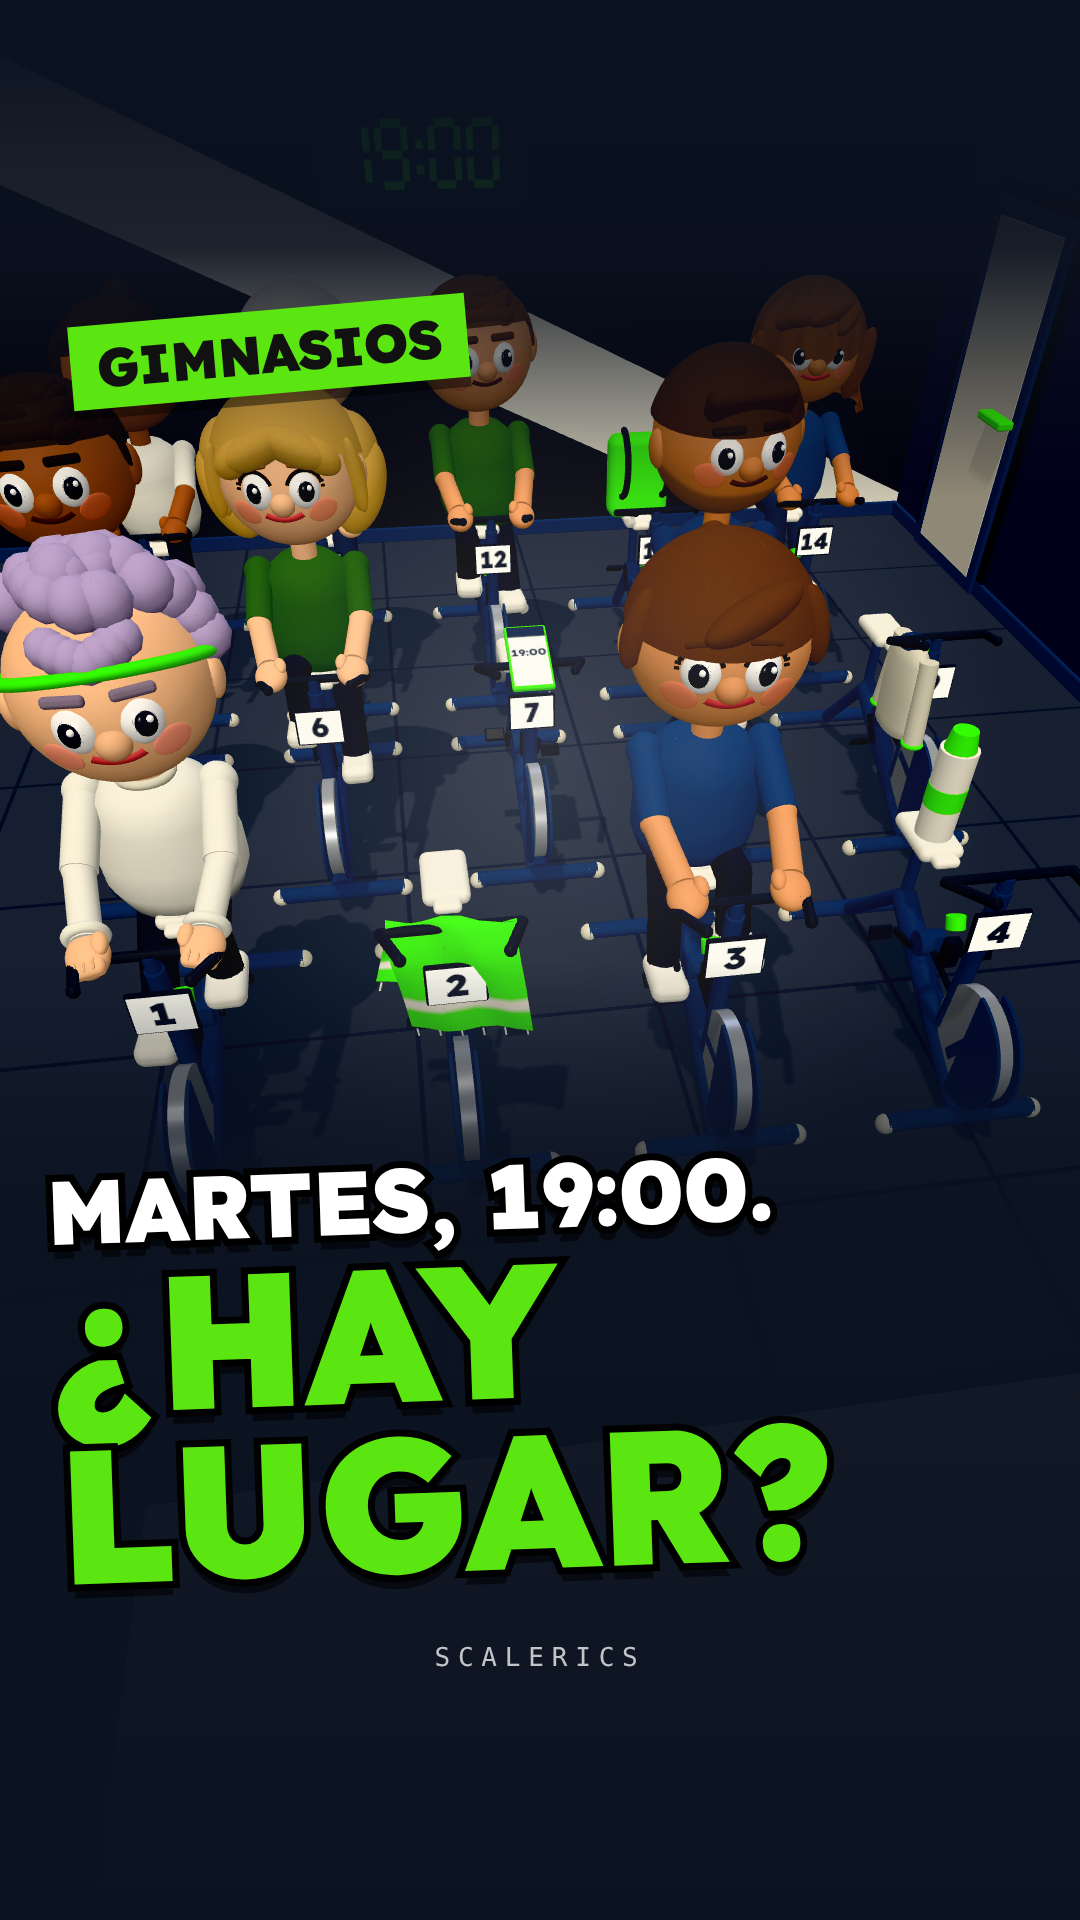
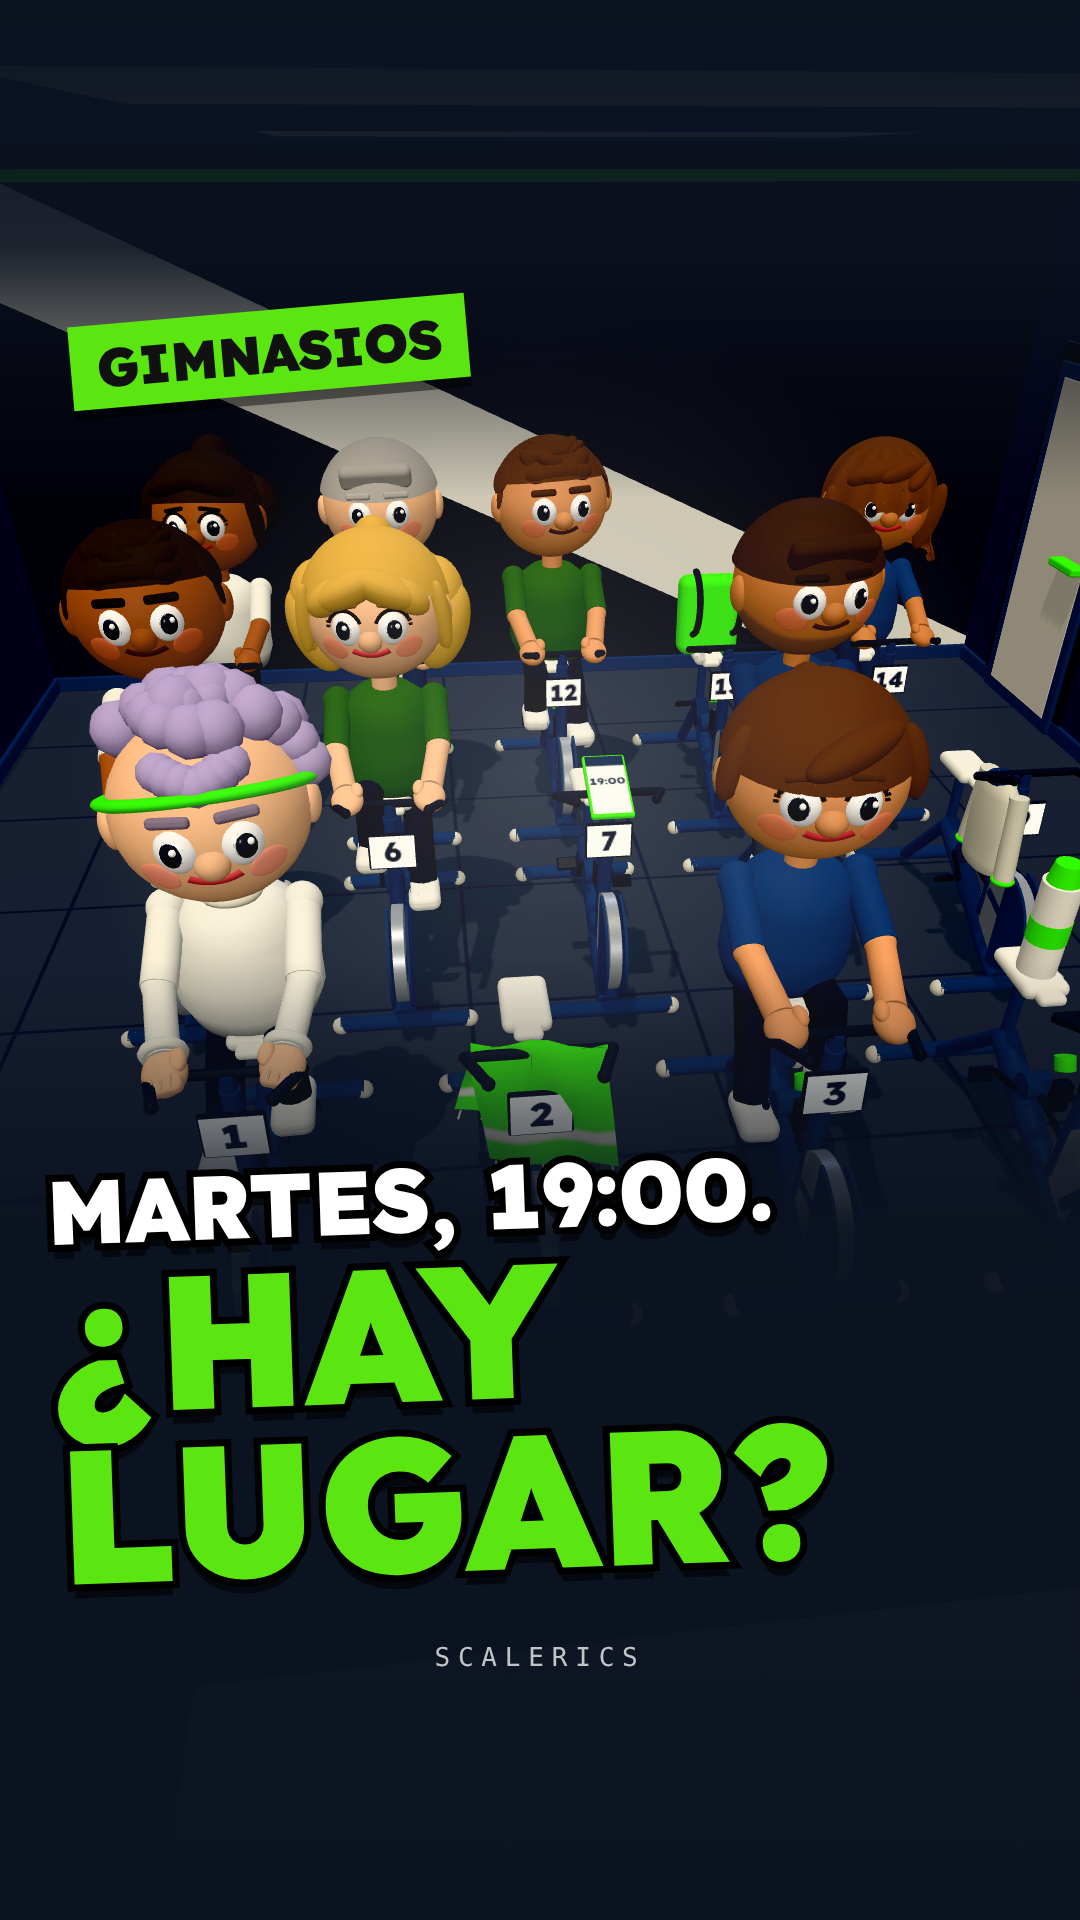
wip: gym-cupo (pulido final r3)
Claude-Session: https://claude.ai/code/session_01Fn7kXAiYtMBN49UGmUCT7Y

diff --git a/reels/gym-cupo/assets/tres.js b/reels/gym-cupo/assets/tres.js
@@ -1252,7 +1252,7 @@ function renderAt(tIn) {
   }
   for (const p of TODOS) if (p.raiz.visible) p.ojoLejano(camera.position);
   // ---- portada (VER=portada): la sala con los nueve y las cinco bicis de perchero, todo en la mitad de arriba ----
-  if (VER === "portada") { ponerCam([0.7, 3.1, -4.75, 0.12, -1.0, 0.9, 82], t); camera.updateMatrixWorld(true); ponerObjetos(t, pa); CEL_M.visible = false; BICI_P.visible = false; for (const p of TODOS) if (p.raiz.visible) p.ojoLejano(camera.position); }
+  if (VER === "portada") { ponerCam([0.7, 3.1, -4.75, 0.12, -1.0, 0.9, 82], t); camera.updateMatrixWorld(true); ponerObjetos(t, pa); CEL_M.visible = false; BICI_P.visible = false; RELOJ.visible = false; for (const p of TODOS) if (p.raiz.visible) p.ojoLejano(camera.position); }   // (r3 B6) sin el reloj: el sello lo tapaba a medias
   // ---- tarjetas ----
   AVISOS.length = 0;
   for (const k in GL) GL[k].visible = false; for (const g of GUIAS) g.visible = false;

diff --git a/reels/gym-cupo/pulido-r3.md b/reels/gym-cupo/pulido-r3.md
@@ -36,5 +36,23 @@ línea chica 40,22.
 - **B4:** las letras del cartel aparecen con opacidad (0,1 s) desde escala 0,35: no queda un glifo suelto ni un punto.
 - **B5:** el rótulo del costo, más chico, va arriba del celular (sin el chip) y el chat de 19:01 ya no lleva el audio:
   se lee "Llena, Majo. Perdoná." entero.
-- **B6:** portada nueva (t 11,0, `portada-src/fondo-limpio-11.0.png`): cámara más atrás y a la izquierda, Graciela
+- **B6:** portada nueva (t 11,0, `portada-src/fondo-limpio-11.0.png`): cámara más atrás y a la izquierda, sin el reloj (el sello lo tapaba a medias), Graciela
   entera, las cabezas debajo del sello.
+
+## No arreglado / a mirar
+- P3 y Q3: abajo de todo asoma una franja crema (el borde de la tarima, la cámara está encima) de ~100 px detrás de
+  los rótulos; para sacarla habría que acercar la cámara y se volvía a cortar la bici 4.
+- El aro de la mochila (bici 13) roza el costado de la cara del alumno de atrás (bici 14) un instante.
+- El chat de 19:01 (P3i) queda con un hueco arriba (se sacó el audio para que se lea "Llena, Majo.").
+- "pedalean": sigue la toma 04-mauro-h (el STT oye "pedalear"; ver rondas anteriores), sin tocar.
+- Los avisos de `check` de siempre (canvas anidado, driver WebGL, dead_stretch/line_unread de craft: la línea chica
+  final 1,5 s). 0 errores.
+
+## Mezcla y render
+- `MEDIR=1 node gen.mjs` + `python3 medir.py`: voz ≥ +6,2 LU sobre el resto en todos los tramos de 0,5 s con voz.
+  `medir-sfx.py`: máximo sin voz -31,1 LUFS (ningún tramo pasa -31).
+- Render: 1892 s (31,5 min, SwiftShader, sin espera de candado; antes esperó ~35 min el render de otro reel) +
+  paso10.sh 46 s → `renders/gym-cupo-final.mp4`: 41,77 s, -14,0 LUFS integrado, pico -5,1 dBFS.
+- Revisión del final: cuadros cada 0,25 s (3 hojas) y a 30 fps alrededor de la toalla (35,95-36,75), la entrada de
+  la tarjeta CUPO (38,5-38,9) y la línea chica (40,1-40,5): sin saltos, sin texto cortado ni pisado.
+- Portada regenerada (`portada.png`): sello, "MARTES, 19:00." y "¿HAY LUGAR?" entre y 285 y 1635, nada encimado.
